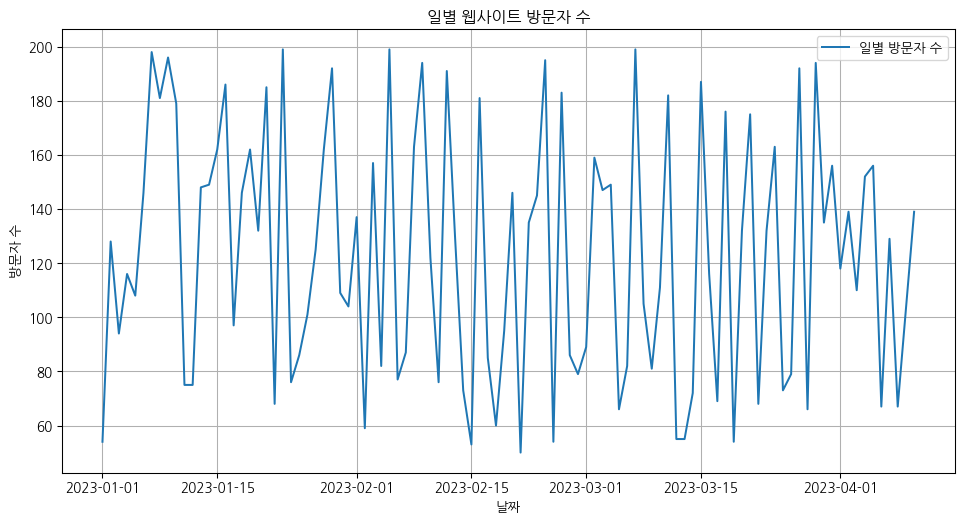
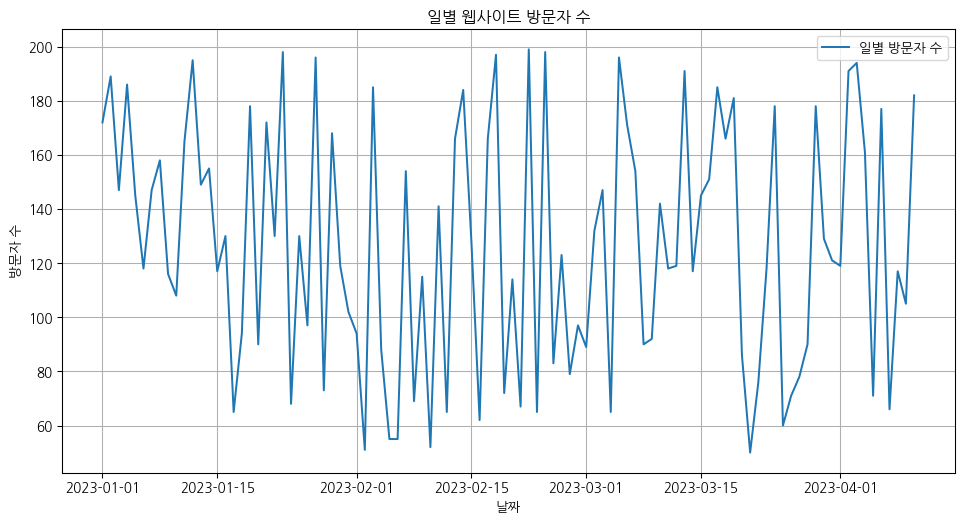
Built site for gh-pages

Changed region(s): [[0.0934, 0.0918, 0.9647, 0.8566], [0.6846, 0.7648, 0.7158, 0.8566]]

diff --git a/index.html b/index.html
@@ -228,7 +228,7 @@ window.Quarto = {
     </div>
 </div>
 <div class="list quarto-listing-default">
[2 lines of base64/hex data omitted]
 <div class="thumbnail"><a href="./posts/ABC_week01_data analysis/index.html" class="no-external">
 
 <p class="card-img-top"><img src="posts/ABC_week01_data analysis/index_files/figure-html/fig-time-series-plot-output-1.png"  class="thumbnail-image card-img"/></p>
@@ -258,7 +258,7 @@ Beomdo Park
 </a>
 </div>
 </div>
[2 lines of base64/hex data omitted]
 <div class="thumbnail"><a href="./posts/testpost/index.html" class="no-external">
 
 <p class="card-img-top"><img src="posts/testpost/index_files/figure-html/fig-time-series-plot-output-1.png"  class="thumbnail-image card-img"/></p>
@@ -288,7 +288,7 @@ Beomdo Park
 </a>
 </div>
 </div>
-<div class="quarto-post image-right" data-index="2" data-categories="bmV3cyUyQ2NvZGUlMkNhbmFseXNpcw==" data-listing-date-sort="1747180800000" data-listing-file-modified-sort="1748071825867" data-listing-date-modified-sort="NaN" data-listing-reading-time-sort="1" data-listing-word-count-sort="49">
+<div class="quarto-post image-right" data-index="2" data-categories="bmV3cyUyQ2NvZGUlMkNhbmFseXNpcw==" data-listing-date-sort="1747180800000" data-listing-file-modified-sort="1748072447490" data-listing-date-modified-sort="NaN" data-listing-reading-time-sort="1" data-listing-word-count-sort="49">
 <div class="thumbnail"><a href="./posts/my-first-post/index.html" class="no-external">
 
 <img loading="lazy" src="./posts/my-first-post/image.jpg" class="thumbnail-image">

diff --git a/posts/testpost/index.html b/posts/testpost/index.html
@@ -298,11 +298,11 @@ pre > code.sourceCode > span > a:first-child::before { text-decoration: underlin
 <div class="cell-output cell-output-stdout">
 <pre><code>            visitors
 date                
-2023-01-01        54
-2023-01-02       128
-2023-01-03        94
-2023-01-04       116
-2023-01-05       108</code></pre>
+2023-01-01       172
+2023-01-02       189
+2023-01-03       147
+2023-01-04       186
+2023-01-05       145</code></pre>
 </div>
 </div>
 </section>
@@ -365,16 +365,16 @@ Figure&nbsp;2: 7일 이동 평균을 포함한 방문자 수
 <div class="cell-output cell-output-stdout">
 <pre><code>            visitors  rolling_mean_7
 date                                
-2023-01-01        54             NaN
-2023-01-02       128             NaN
-2023-01-03        94             NaN
-2023-01-04       116             NaN
-2023-01-05       108             NaN
-2023-01-06       146             NaN
-2023-01-07       198      120.571429
-2023-01-08       181      138.714286
-2023-01-09       196      148.428571
-2023-01-10       179      160.571429</code></pre>
+2023-01-01       172             NaN
+2023-01-02       189             NaN
+2023-01-03       147             NaN
+2023-01-04       186             NaN
+2023-01-05       145             NaN
+2023-01-06       118             NaN
+2023-01-07       147      157.714286
+2023-01-08       158      155.714286
+2023-01-09       116      145.285714
+2023-01-10       108      139.714286</code></pre>
 </div>
 </div>
 </section>
